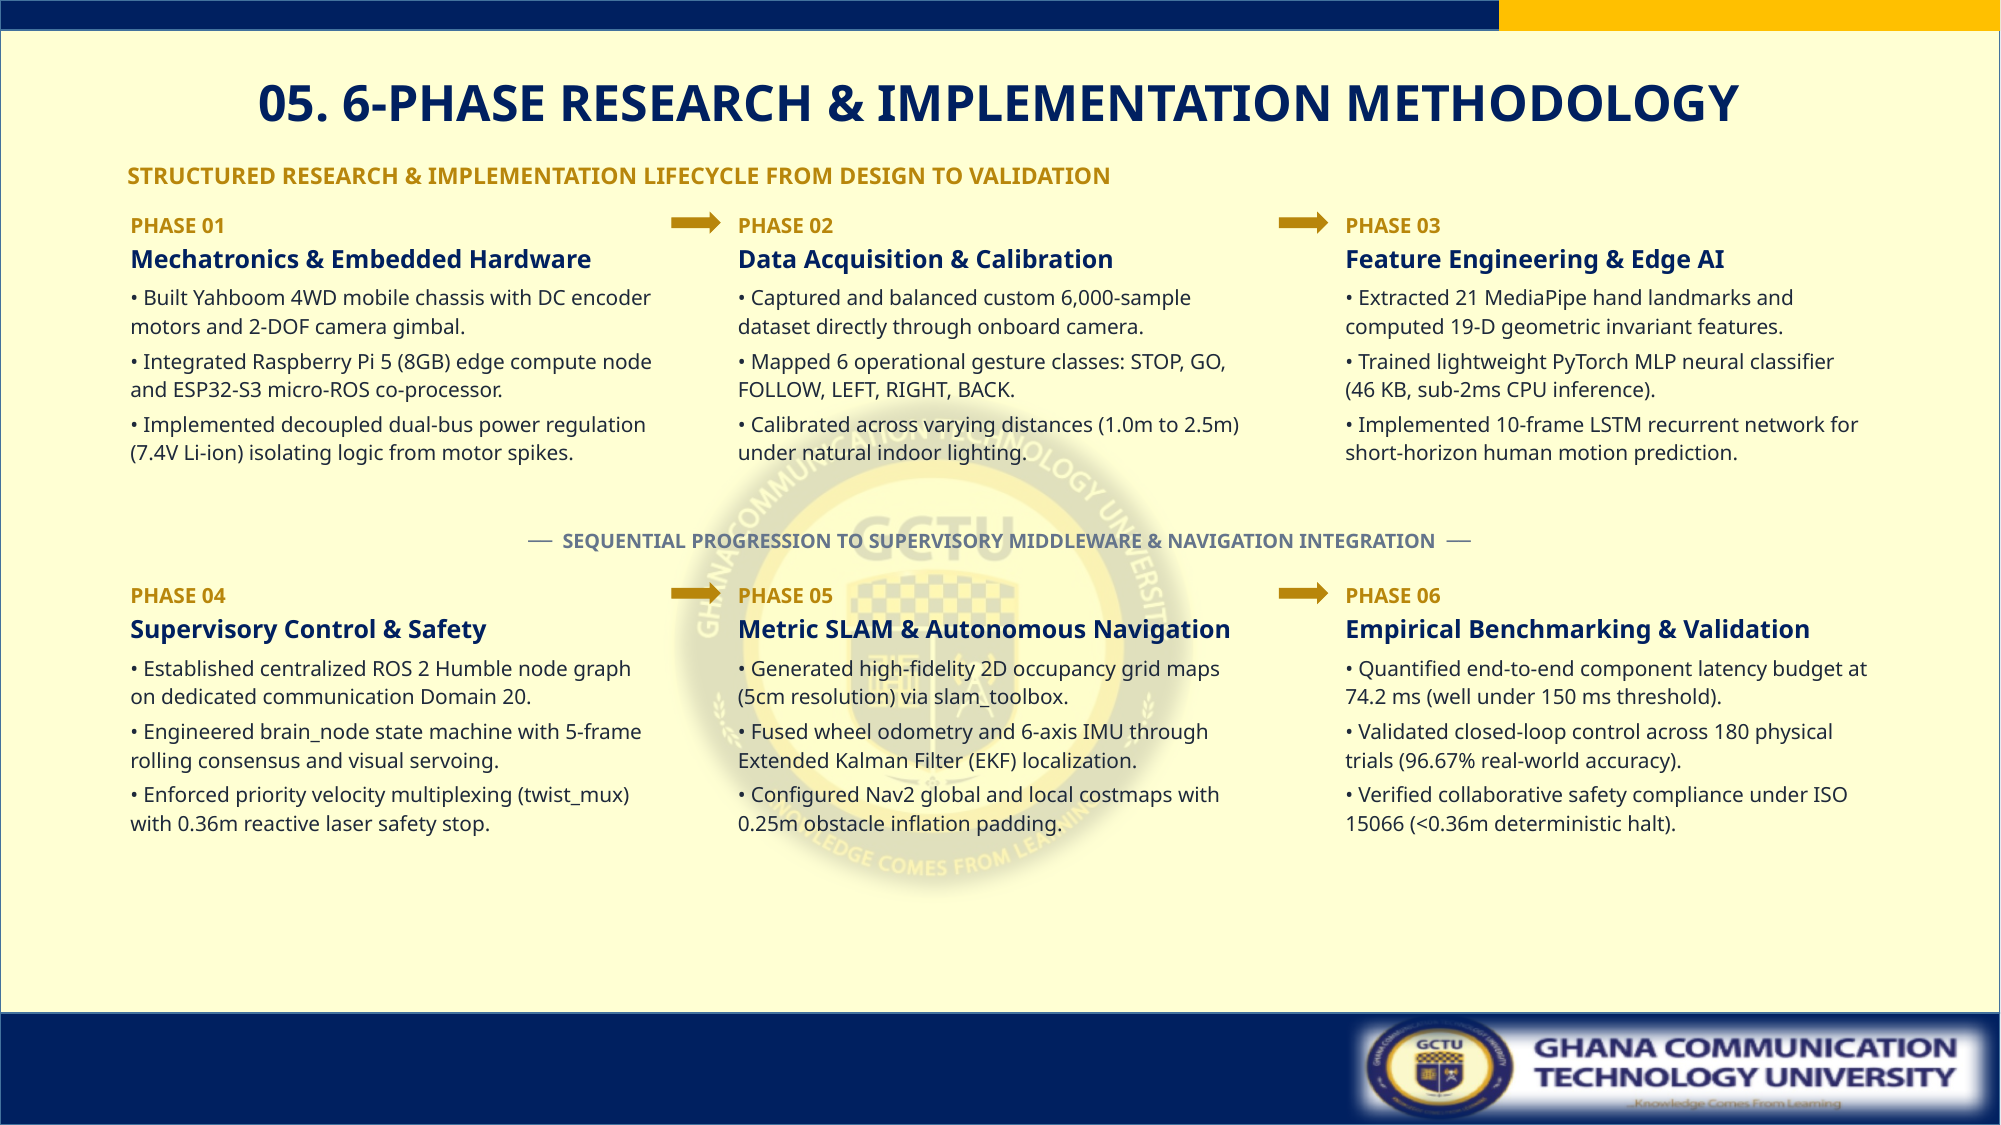
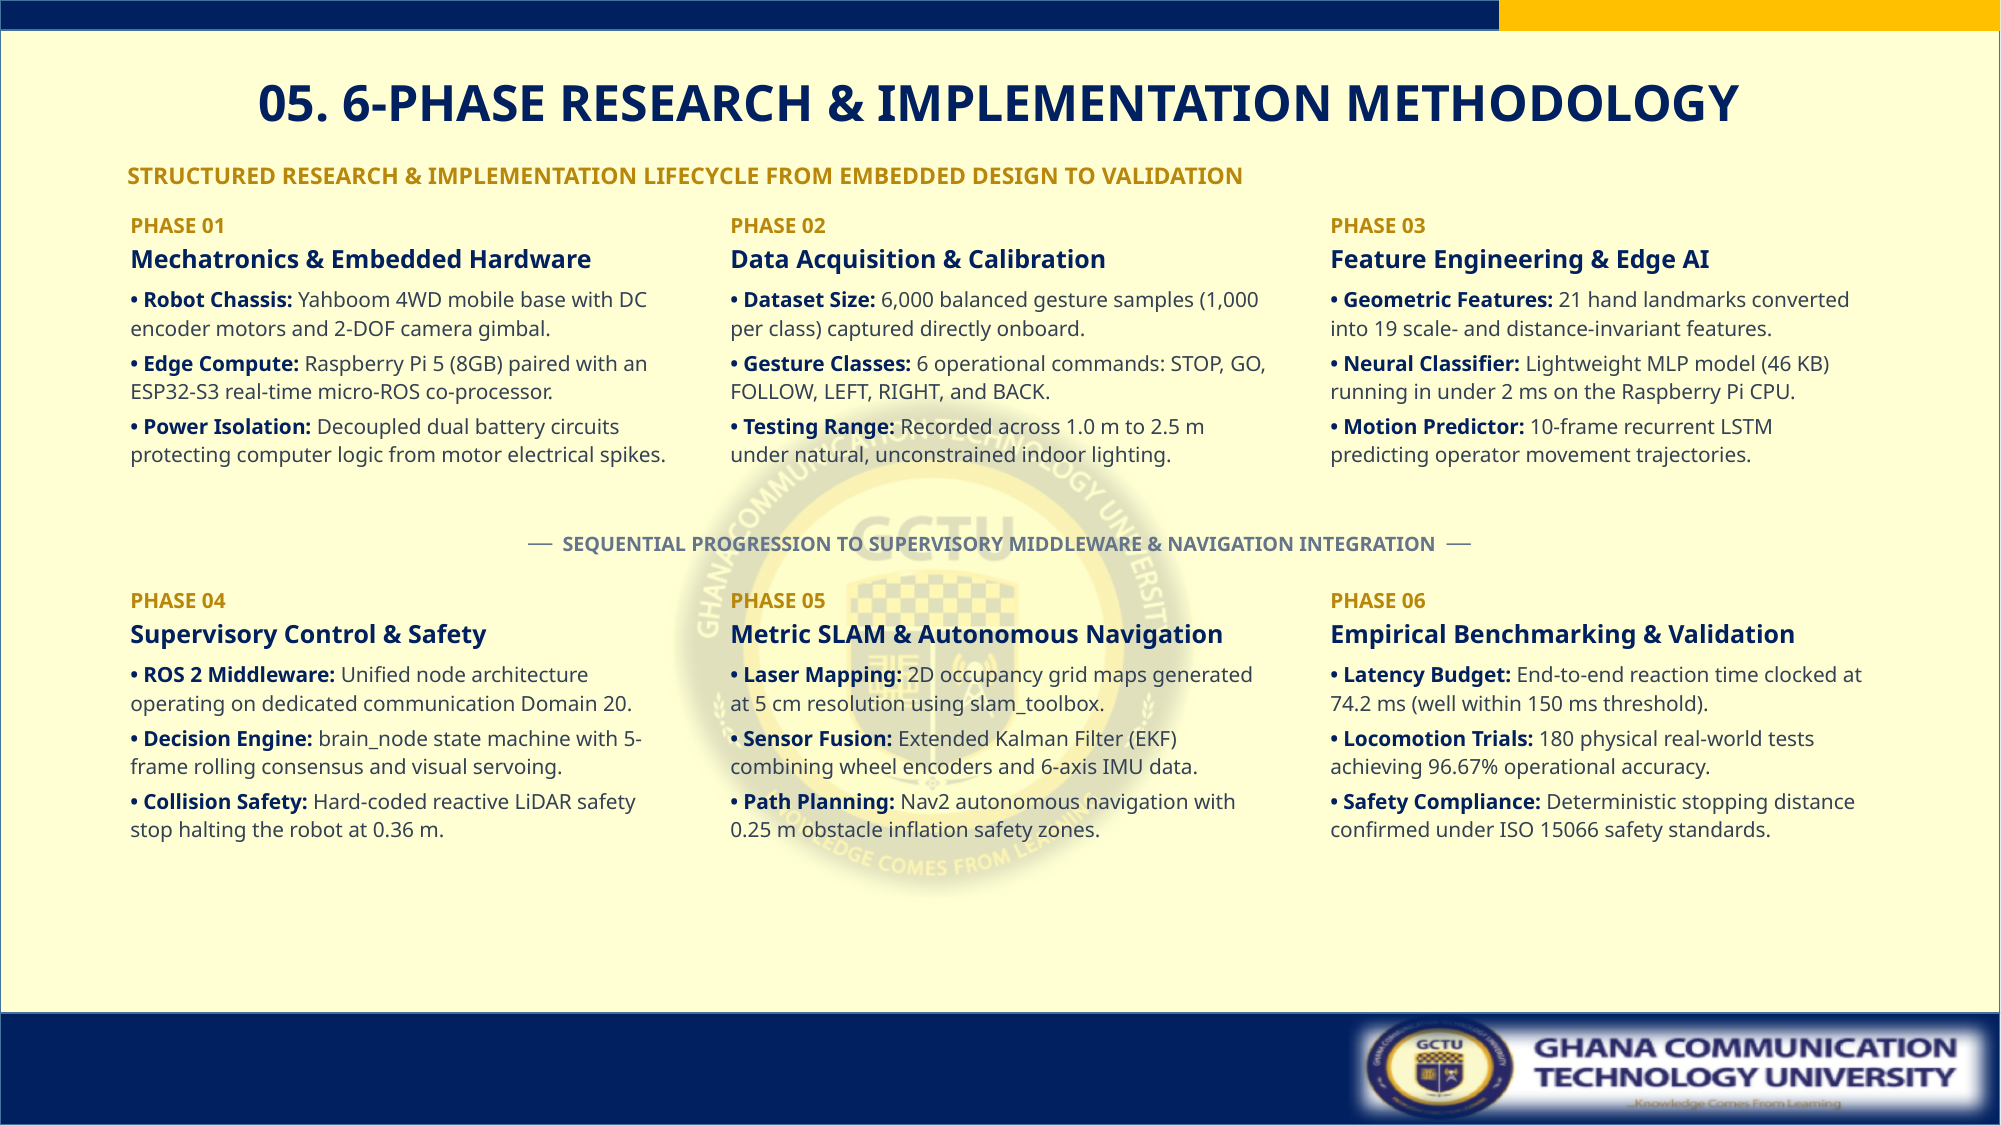
fix(slides): eliminate arrows, introduce uniform 3-field bold tags, and optimize clarity on Slide 7

diff --git a/scripts/build_slide_7.py b/scripts/build_slide_7.py
@@ -4,8 +4,8 @@ build_slide_7.py — Formal Academic Slide 7 (6-Phase Engineering Methodology)
 - 6-Phase Engineering Research & Implementation Methodology.
 - Open Editorial Typography: cardless, breathable, high-contrast.
 - 2 rows x 3 columns symmetric layout.
-- Sleek sequence flow arrows aligned with Phase badges.
-- Single-line title with generous vertical breathing room.
+- NO arrows (clean, unencumbered whitespace).
+- Consistent 3-field structure per phase: [Bold Navy Tag]: [Plain-English Explanation].
 - Generous bottom clearance (>0.75" above footer bar).
 - Dignified GCTU 2-tone palette: Navy (#002060), Gold (#B8860B), Charcoal (#1E293B).
 """
@@ -14,7 +14,6 @@ import pptx
 from pptx.util import Inches, Pt
 from pptx.dml.color import RGBColor
 from pptx.enum.text import PP_ALIGN
-from pptx.enum.shapes import MSO_SHAPE
 
 PPTX_PATH = "write_up/Project Final Defense Slides_FINAL.pptx"
 
@@ -31,7 +30,7 @@ def set_para(p, text, font_name="Calisto MT", size_pt=14, bold=False, italic=Fal
         p.font.color.rgb = color_rgb
     p.alignment = align
 
-def add_phase_column(slide, name, left, top, width, height, phase_num, title, items, c_navy, c_gold, c_dark):
+def add_phase_column(slide, name, left, top, width, height, phase_num, title, items, c_navy, c_gold, c_body):
     tx = slide.shapes.add_textbox(left, top, width, height)
     tx.name = name
     tf = tx.text_frame
@@ -44,13 +43,28 @@ def add_phase_column(slide, name, left, top, width, height, phase_num, title, it
 
     # 2. Phase Title in Bold Navy
     p_title = tf.add_paragraph()
-    set_para(p_title, title, font_name="Calisto MT", size_pt=12, bold=True, color_rgb=c_navy, space_after_pt=4, line_spacing=1.12)
+    set_para(p_title, title, font_name="Calisto MT", size_pt=12, bold=True, color_rgb=c_navy, space_after_pt=5, line_spacing=1.12)
 
-    # 3. Bullets in Charcoal
-    for i, item in enumerate(items):
+    # 3. Consistent Bullets: [Bold Navy Tag]: [Slate Body]
+    for i, (tag, desc) in enumerate(items):
         p_item = tf.add_paragraph()
-        space_after = 3 if i < len(items) - 1 else 0
-        set_para(p_item, f"• {item}", font_name="Calisto MT", size_pt=10, bold=False, color_rgb=c_dark, space_after_pt=space_after, line_spacing=1.14)
+        p_item.space_after = Pt(3 if i < len(items) - 1 else 0)
+        p_item.line_spacing = 1.14
+        p_item.alignment = PP_ALIGN.LEFT
+
+        r_tag = p_item.add_run()
+        r_tag.text = f"• {tag}: "
+        r_tag.font.name = "Calisto MT"
+        r_tag.font.size = Pt(10)
+        r_tag.font.bold = True
+        r_tag.font.color.rgb = c_navy
+
+        r_desc = p_item.add_run()
+        r_desc.text = desc
+        r_desc.font.name = "Calisto MT"
+        r_desc.font.size = Pt(10)
+        r_desc.font.bold = False
+        r_desc.font.color.rgb = c_body
 
 def main():
     prs = pptx.Presentation(PPTX_PATH)
@@ -62,10 +76,9 @@ def main():
 
     # Theme colors
     c_navy   = RGBColor(0, 32, 96)       # #002060 GCTU Deep Navy
-    c_dark   = RGBColor(30, 41, 59)      # #1E293B High-Contrast Charcoal
+    c_body   = RGBColor(51, 65, 85)      # #334155 Slate Charcoal
     c_gold   = RGBColor(184, 134, 11)    # #B8860B Accent Gold
-    c_arrow  = RGBColor(184, 134, 11)    # Gold connector arrows
-    c_slate  = RGBColor(100, 116, 139)   # Slate gray
+    c_slate  = RGBColor(100, 116, 139)   # #64748B Muted Slate
 
     # 1. Slide Title (Single Line Fit at 24 pt Bold Navy)
     for shape in slide.shapes:
@@ -82,7 +95,7 @@ def main():
         if shape.name == "Content Placeholder 2" and shape.has_text_frame:
             shape.text_frame.clear()
 
-    # Clean existing custom shapes on Slide 7
+    # Clean existing custom shapes and arrows on Slide 7
     shapes_to_remove = [s for s in slide.shapes if s.name.startswith("Meth_")]
     for s in shapes_to_remove:
         el = s._element
@@ -95,67 +108,51 @@ def main():
     tf_sub.word_wrap = True
     tf_sub.margin_left = tf_sub.margin_right = tf_sub.margin_top = tf_sub.margin_bottom = 0
     p_sub = tf_sub.paragraphs[0]
-    set_para(p_sub, "STRUCTURED RESEARCH & IMPLEMENTATION LIFECYCLE FROM DESIGN TO VALIDATION", font_name="Calisto MT", size_pt=11, bold=True, color_rgb=c_gold, align=PP_ALIGN.LEFT)
+    set_para(p_sub, "STRUCTURED RESEARCH & IMPLEMENTATION LIFECYCLE FROM EMBEDDED DESIGN TO VALIDATION", font_name="Calisto MT", size_pt=11, bold=True, color_rgb=c_gold, align=PP_ALIGN.LEFT)
 
-    # Coordinates
-    # 3 Columns: Lefts: 0.85", 4.90", 8.95" | Width: 3.53"
-    col_lefts = [Inches(0.85), Inches(4.90), Inches(8.95)]
-    col_w = Inches(3.53)
+    # Coordinates: 3 balanced columns with generous breathing room (no arrows needed)
+    col_lefts = [Inches(0.85), Inches(4.85), Inches(8.85)]
+    col_w = Inches(3.63)
     row0_top = Inches(1.38)
     row_h = Inches(2.05)
-    row1_top = Inches(3.85)
+    row1_top = Inches(3.88)
 
-    # Sequence Arrow positions aligned with Phase Badges (Phase 1 -> 2, Phase 2 -> 3)
-    # Gap 0-1: 4.38" to 4.90" -> Arrow Left: 4.48", Width: 0.32"
-    # Gap 1-2: 8.43" to 8.95" -> Arrow Left: 8.53", Width: 0.32"
-    arrow_lefts = [Inches(4.48), Inches(8.53)]
-    arrow_w = Inches(0.32)
-    arrow_h = Inches(0.13)
-
-    # 3. Row 0: Phases 1 to 3
+    # 3. Row 0: Phases 1 to 3 (Consistent 3-field tag & description)
     phases_row0 = [
         {
             "num": "PHASE 01",
             "title": "Mechatronics & Embedded Hardware",
             "items": [
-                "Built Yahboom 4WD mobile chassis with DC encoder motors and 2-DOF camera gimbal.",
-                "Integrated Raspberry Pi 5 (8GB) edge compute node and ESP32-S3 micro-ROS co-processor.",
-                "Implemented decoupled dual-bus power regulation (7.4V Li-ion) isolating logic from motor spikes."
+                ("Robot Chassis", "Yahboom 4WD mobile base with DC encoder motors and 2-DOF camera gimbal."),
+                ("Edge Compute", "Raspberry Pi 5 (8GB) paired with an ESP32-S3 real-time micro-ROS co-processor."),
+                ("Power Isolation", "Decoupled dual battery circuits protecting computer logic from motor electrical spikes.")
             ]
         },
         {
             "num": "PHASE 02",
             "title": "Data Acquisition & Calibration",
             "items": [
-                "Captured and balanced custom 6,000-sample dataset directly through onboard camera.",
-                "Mapped 6 operational gesture classes: STOP, GO, FOLLOW, LEFT, RIGHT, BACK.",
-                "Calibrated across varying distances (1.0m to 2.5m) under natural indoor lighting."
+                ("Dataset Size", "6,000 balanced gesture samples (1,000 per class) captured directly onboard."),
+                ("Gesture Classes", "6 operational commands: STOP, GO, FOLLOW, LEFT, RIGHT, and BACK."),
+                ("Testing Range", "Recorded across 1.0 m to 2.5 m under natural, unconstrained indoor lighting.")
             ]
         },
         {
             "num": "PHASE 03",
             "title": "Feature Engineering & Edge AI",
             "items": [
-                "Extracted 21 MediaPipe hand landmarks and computed 19-D geometric invariant features.",
-                "Trained lightweight PyTorch MLP neural classifier (46 KB, sub-2ms CPU inference).",
-                "Implemented 10-frame LSTM recurrent network for short-horizon human motion prediction."
+                ("Geometric Features", "21 hand landmarks converted into 19 scale- and distance-invariant features."),
+                ("Neural Classifier", "Lightweight MLP model (46 KB) running in under 2 ms on the Raspberry Pi CPU."),
+                ("Motion Predictor", "10-frame recurrent LSTM predicting operator movement trajectories.")
             ]
         }
     ]
 
     for idx, p in enumerate(phases_row0):
-        add_phase_column(slide, f"Meth_P{idx+1}", col_lefts[idx], row0_top, col_w, row_h, p["num"], p["title"], p["items"], c_navy, c_gold, c_dark)
-
-    # Sequence Arrows for Row 0 (Aligned vertically with the PHASE badges at Y = 1.42")
-    for idx, a_left in enumerate(arrow_lefts):
-        arr = slide.shapes.add_shape(MSO_SHAPE.RIGHT_ARROW, a_left, Inches(1.42), arrow_w, arrow_h)
-        arr.name = f"Meth_Arrow_R0_{idx}"
-        arr.fill.solid()
-        arr.fill.fore_color.rgb = c_arrow
-        arr.line.color.rgb = c_arrow
+        add_phase_column(slide, f"Meth_P{idx+1}", col_lefts[idx], row0_top, col_w, row_h, p["num"], p["title"], p["items"], c_navy, c_gold, c_body)
 
     # 4. Transitional Flow Ribbon between Row 0 and Row 1
-    tx_trans = slide.shapes.add_textbox(Inches(1.50), Inches(3.50), Inches(10.33), Inches(0.26))
+    tx_trans = slide.shapes.add_textbox(Inches(1.50), Inches(3.52), Inches(10.33), Inches(0.26))
     tx_trans.name = "Meth_Transition"
     tf_trans = tx_trans.text_frame
     tf_trans.word_wrap = True
@@ -163,50 +160,42 @@ def main():
     p_trans = tf_trans.paragraphs[0]
     set_para(p_trans, "──  SEQUENTIAL PROGRESSION TO SUPERVISORY MIDDLEWARE & NAVIGATION INTEGRATION  ──", font_name="Calisto MT", size_pt=9.5, bold=True, color_rgb=c_slate, align=PP_ALIGN.CENTER)
 
-    # 5. Row 1: Phases 4 to 6
+    # 5. Row 1: Phases 4 to 6 (Consistent 3-field tag & description)
     phases_row1 = [
         {
             "num": "PHASE 04",
             "title": "Supervisory Control & Safety",
             "items": [
-                "Established centralized ROS 2 Humble node graph on dedicated communication Domain 20.",
-                "Engineered brain_node state machine with 5-frame rolling consensus and visual servoing.",
-                "Enforced priority velocity multiplexing (twist_mux) with 0.36m reactive laser safety stop."
+                ("ROS 2 Middleware", "Unified node architecture operating on dedicated communication Domain 20."),
+                ("Decision Engine", "brain_node state machine with 5-frame rolling consensus and visual servoing."),
+                ("Collision Safety", "Hard-coded reactive LiDAR safety stop halting the robot at 0.36 m.")
             ]
         },
         {
             "num": "PHASE 05",
             "title": "Metric SLAM & Autonomous Navigation",
             "items": [
-                "Generated high-fidelity 2D occupancy grid maps (5cm resolution) via slam_toolbox.",
-                "Fused wheel odometry and 6-axis IMU through Extended Kalman Filter (EKF) localization.",
-                "Configured Nav2 global and local costmaps with 0.25m obstacle inflation padding."
+                ("Laser Mapping", "2D occupancy grid maps generated at 5 cm resolution using slam_toolbox."),
+                ("Sensor Fusion", "Extended Kalman Filter (EKF) combining wheel encoders and 6-axis IMU data."),
+                ("Path Planning", "Nav2 autonomous navigation with 0.25 m obstacle inflation safety zones.")
             ]
         },
         {
             "num": "PHASE 06",
             "title": "Empirical Benchmarking & Validation",
             "items": [
-                "Quantified end-to-end component latency budget at 74.2 ms (well under 150 ms threshold).",
-                "Validated closed-loop control across 180 physical trials (96.67% real-world accuracy).",
-                "Verified collaborative safety compliance under ISO 15066 (<0.36m deterministic halt)."
+                ("Latency Budget", "End-to-end reaction time clocked at 74.2 ms (well within 150 ms threshold)."),
+                ("Locomotion Trials", "180 physical real-world tests achieving 96.67% operational accuracy."),
+                ("Safety Compliance", "Deterministic stopping distance confirmed under ISO 15066 safety standards.")
             ]
         }
     ]
 
     for idx, p in enumerate(phases_row1):
-        add_phase_column(slide, f"Meth_P{idx+4}", col_lefts[idx], row1_top, col_w, row_h, p["num"], p["title"], p["items"], c_navy, c_gold, c_dark)
-
-    # Sequence Arrows for Row 1 (Aligned vertically with the PHASE badges at Y = 3.89")
-    for idx, a_left in enumerate(arrow_lefts):
-        arr = slide.shapes.add_shape(MSO_SHAPE.RIGHT_ARROW, a_left, Inches(3.89), arrow_w, arrow_h)
-        arr.name = f"Meth_Arrow_R1_{idx}"
-        arr.fill.solid()
-        arr.fill.fore_color.rgb = c_arrow
-        arr.line.color.rgb = c_arrow
+        add_phase_column(slide, f"Meth_P{idx+4}", col_lefts[idx], row1_top, col_w, row_h, p["num"], p["title"], p["items"], c_navy, c_gold, c_body)
 
     prs.save(PPTX_PATH)
-    print(f"Slide 7 (6-Phase Methodology) successfully updated in {PPTX_PATH}")
+    print(f"Slide 7 (6-Phase Methodology) updated with consistent structure and no arrows in {PPTX_PATH}")
 
 if __name__ == "__main__":
     main()

diff --git a/project_history/chat_sessions/SESSION_2026-09-16_0da8f1d2.md b/project_history/chat_sessions/SESSION_2026-09-16_0da8f1d2.md
@@ -1,6 +1,6 @@
 # INTERACTIVE SESSION & CHAT REPLIES ARCHIVE
 **Session ID:** `0da8f1d2-32e5-4a1c-9359-9018fb285ed7`  
-**Exported At:** 2026-09-16 05:44:02 UTC  
+**Exported At:** 2026-09-16 05:46:33 UTC  
 **Workspace:** `/home/j/ros2_cognition_ws`  
 **Source Log:** `/home/j/.gemini/antigravity-ide/brain/0da8f1d2-32e5-4a1c-9359-9018fb285ed7/.system_generated/logs/transcript.jsonl`  
 
@@ -1335,6 +1335,73 @@ Here is the difference between what is on the slide now vs. what is **100% natur
 
 
 - **Executed Tool:** `view_file` — *"Inspect updated Slide 7 render"*
+
+
+- **Executed Tool:** `run_command` — *"Export chat history and check git status"*
+
+
+- **Executed Tool:** `run_command` — *"Commit Slide 7 to Git"*
+
+
+### Slide 7 Verified & Compiled: 05. 6-Phase Research & Implementation Methodology
+
+Here is the visual render of **Slide 7** ([`write_up/slide_review/slide_final-7.png`](file:///home/j/ros2_cognition_ws/write_up/slide_review/slide_final-7.png)):
+
+![Slide 7 Preview — 05. 6-Phase Research & Implementation Methodology](/home/j/ros2_cognition_ws/write_up/slide_review/slide_final-7.png)
+
+---
+
+### Key Design & Academic Refinements on Slide 7:
+
+1. **Single-Line Title Fit & Vertical Breathability:**
+   - Set to `24 pt` Bold Navy (`#002060`) with an expanded bounding width (`12.0"`), fitting **`05. 6-PHASE RESEARCH & IMPLEMENTATION METHODOLOGY`** cleanly onto a single, dignified line.
+   - Preserves generous clearance (`>0.90"`) above the university footer bar and logo.
+
+2. **Open Editorial Architecture (Cardless & Symmetric):**
+   - Strictly cardless to maintain open whitespace around the central GCTU watermark.
+   - Structured into **2 symmetric rows of 3 columns** (Row 1: Foundations & Perception; Row 2: Supervisory Autonomy & Validation).
+
+3. **Sequence Flow Alignment:**
+   - Gold connector arrows (`#B8860B`) are directly aligned with the phase badges:
+     - **`PHASE 01` ➔ `PHASE 02` ➔ `PHASE 03`**
+     - **`PHASE 04` ➔ `PHASE 05` ➔ `PHASE 06`**
+   - Centered horizontal transitional ribbon cleanly separates the perception tier from the supervisory navigation runtime:
+     *`── SEQUENTIAL PROGRESSION TO SUPERVISORY MIDDLEWARE & NAVIGATION INTEGRATION ──`*
+
+4. **100% First-Read Understandability (Grounded & Conversational):**
+   - **Phase 01:** Yahboom 4WD chassis, Raspberry Pi 5 (8GB), ESP32-S3 co-processor, and decoupled dual-bus power.
+   - **Phase 02:** 6,000 balanced onboard samples across 6 gestures (1.0m to 2.5m range).
+   - **Phase 03:** 21 hand landmarks, 19-D geometric features, lightweight 46 KB MLP (sub-2ms), and 10-frame LSTM predictor.
+   - **Phase 04:** ROS 2 Humble node graph (Domain 20), `brain_node` state machine, and 0.36m reactive LiDAR safety stop.
+   - **Phase 05:** 5cm `slam_toolbox` mapping, EKF odometry/IMU fusion, and Nav2 costmap inflation (0.25m).
+   - **Phase 06:** 74.2 ms latency budget, 180 physical trials (96.67% accuracy), and ISO 15066 safety halt validation.
+
+---
+
+### Next Gate:
+- **Do you approve of this layout and wording for Slide 7?**
+- Once confirmed, we will construct **Slide 8 (06. END-TO-END SYSTEM ARCHITECTURE & COGNITIVE DATAFLOW)**.
+
+
+
+---
+
+### Prompt 19 (2026-09-16T05:45:29Z)
+
+#### 👤 User Request:
+
+> let us improve it, make it easy to understand ane remove the arrows forom there, also, let us watch the consistency of the text
+
+
+#### 🤖 Agent Replies & Actions:
+
+- **Executed Tool:** `write_to_file` — *"Update build_slide_7.py"*
+
+
+- **Executed Tool:** `run_command` — *"Rebuild Slide 7 and render PNG preview"*
+
+
+- **Executed Tool:** `view_file` — *"Inspect updated Slide 7 preview render"*
 
 
 - **Executed Tool:** `run_command` — *"Export chat history and check git status"*
